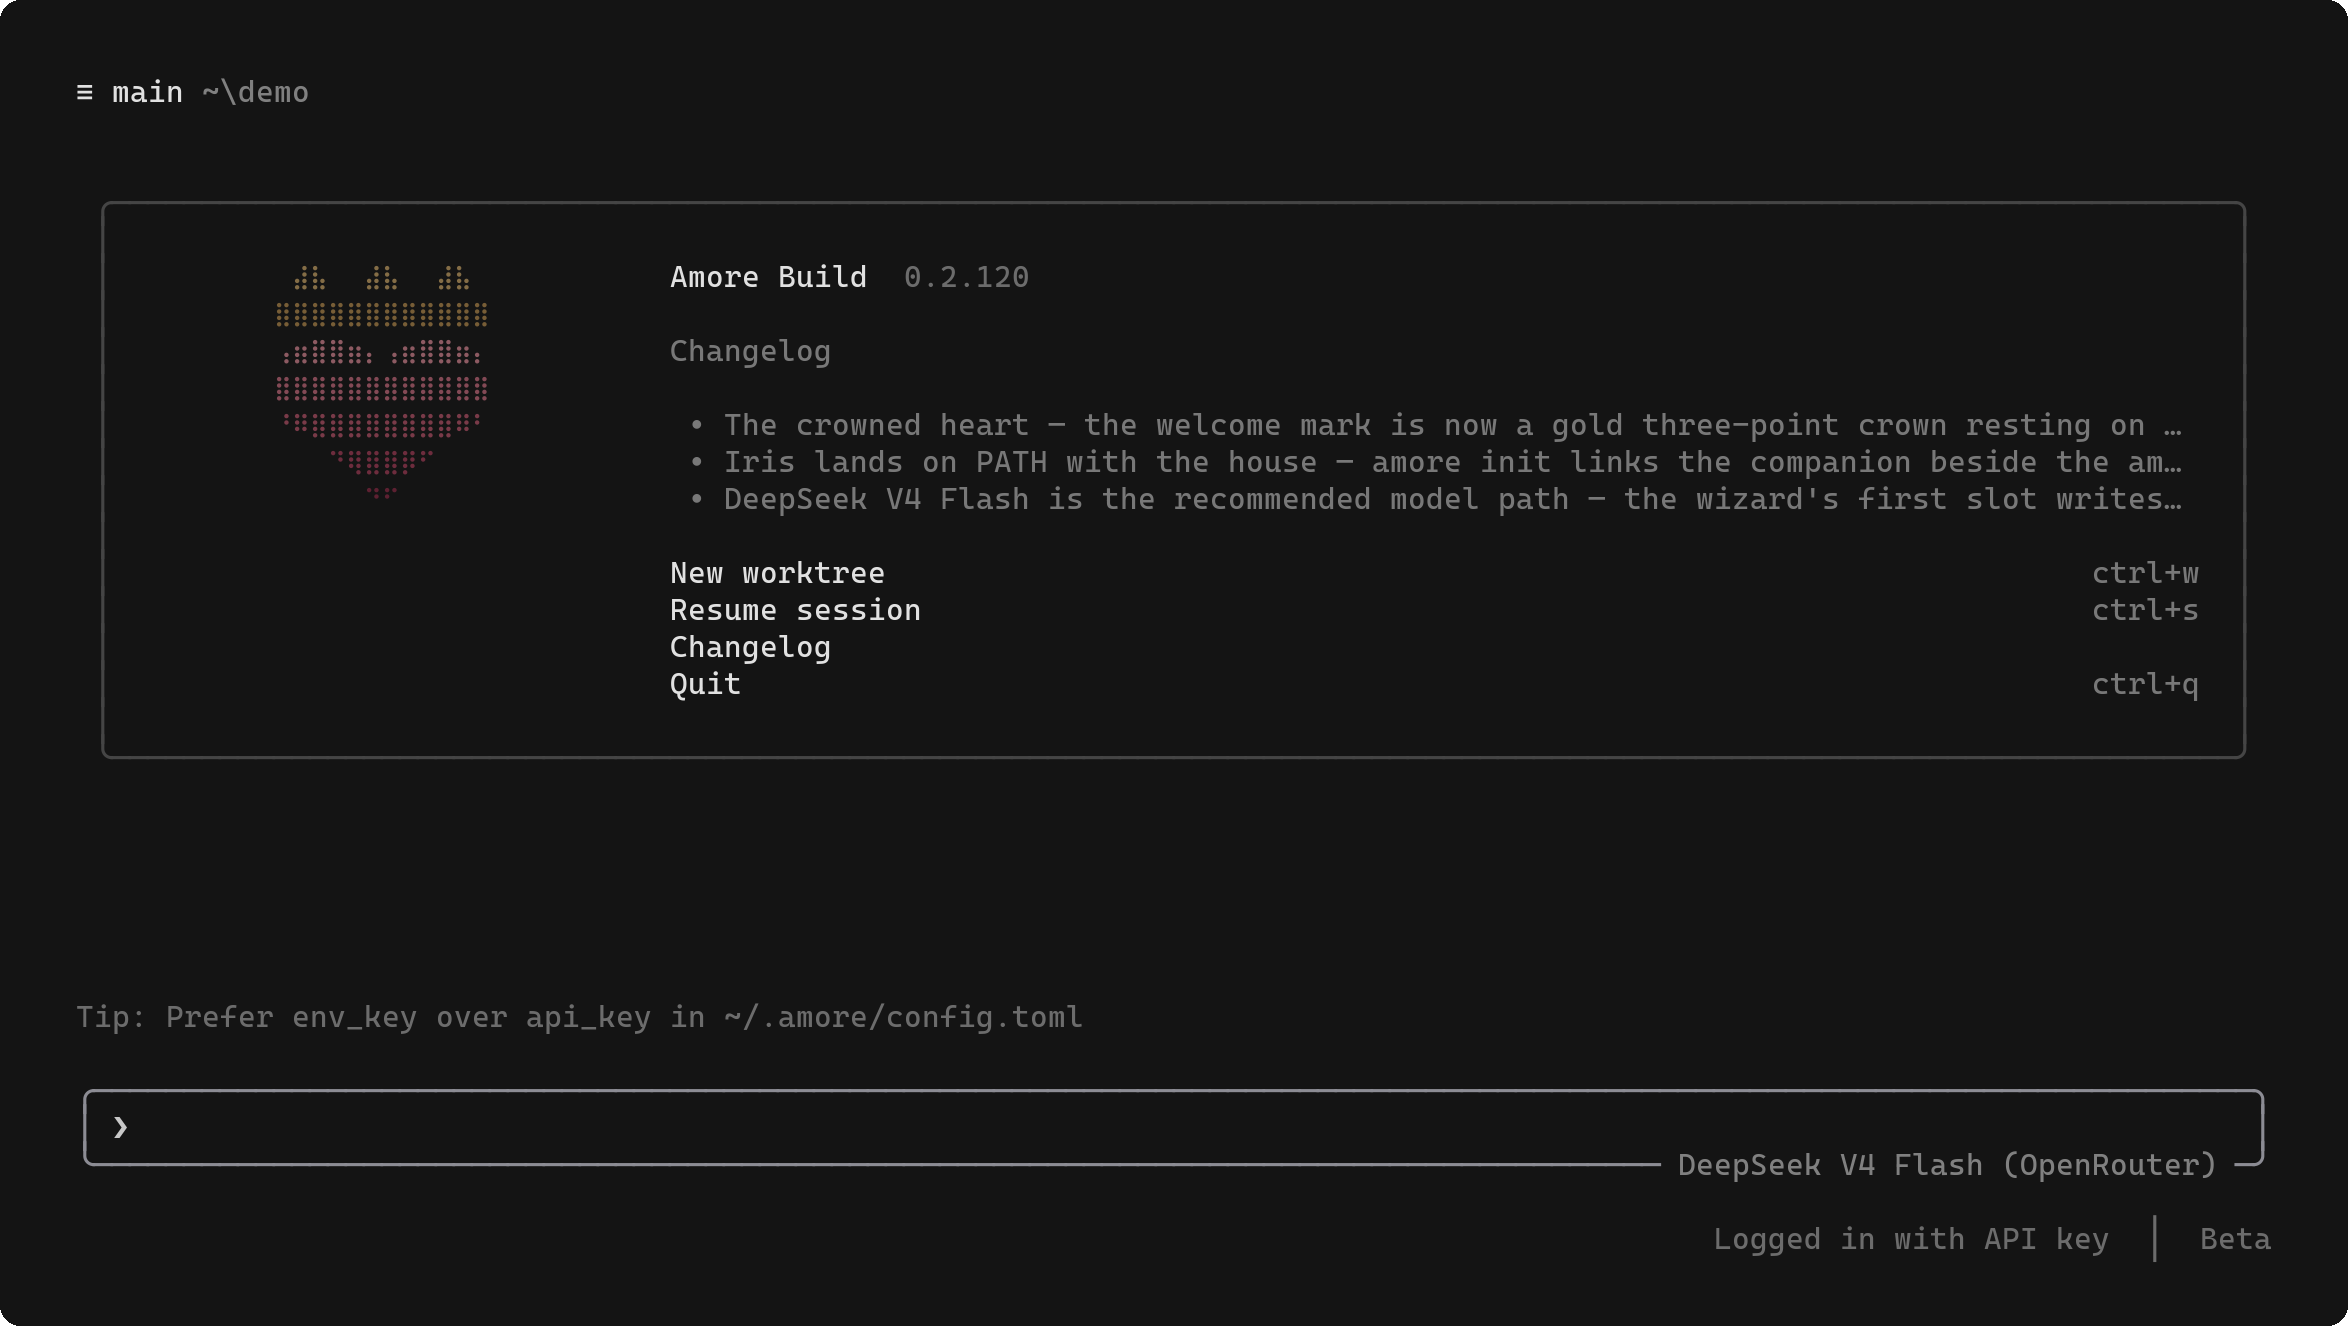
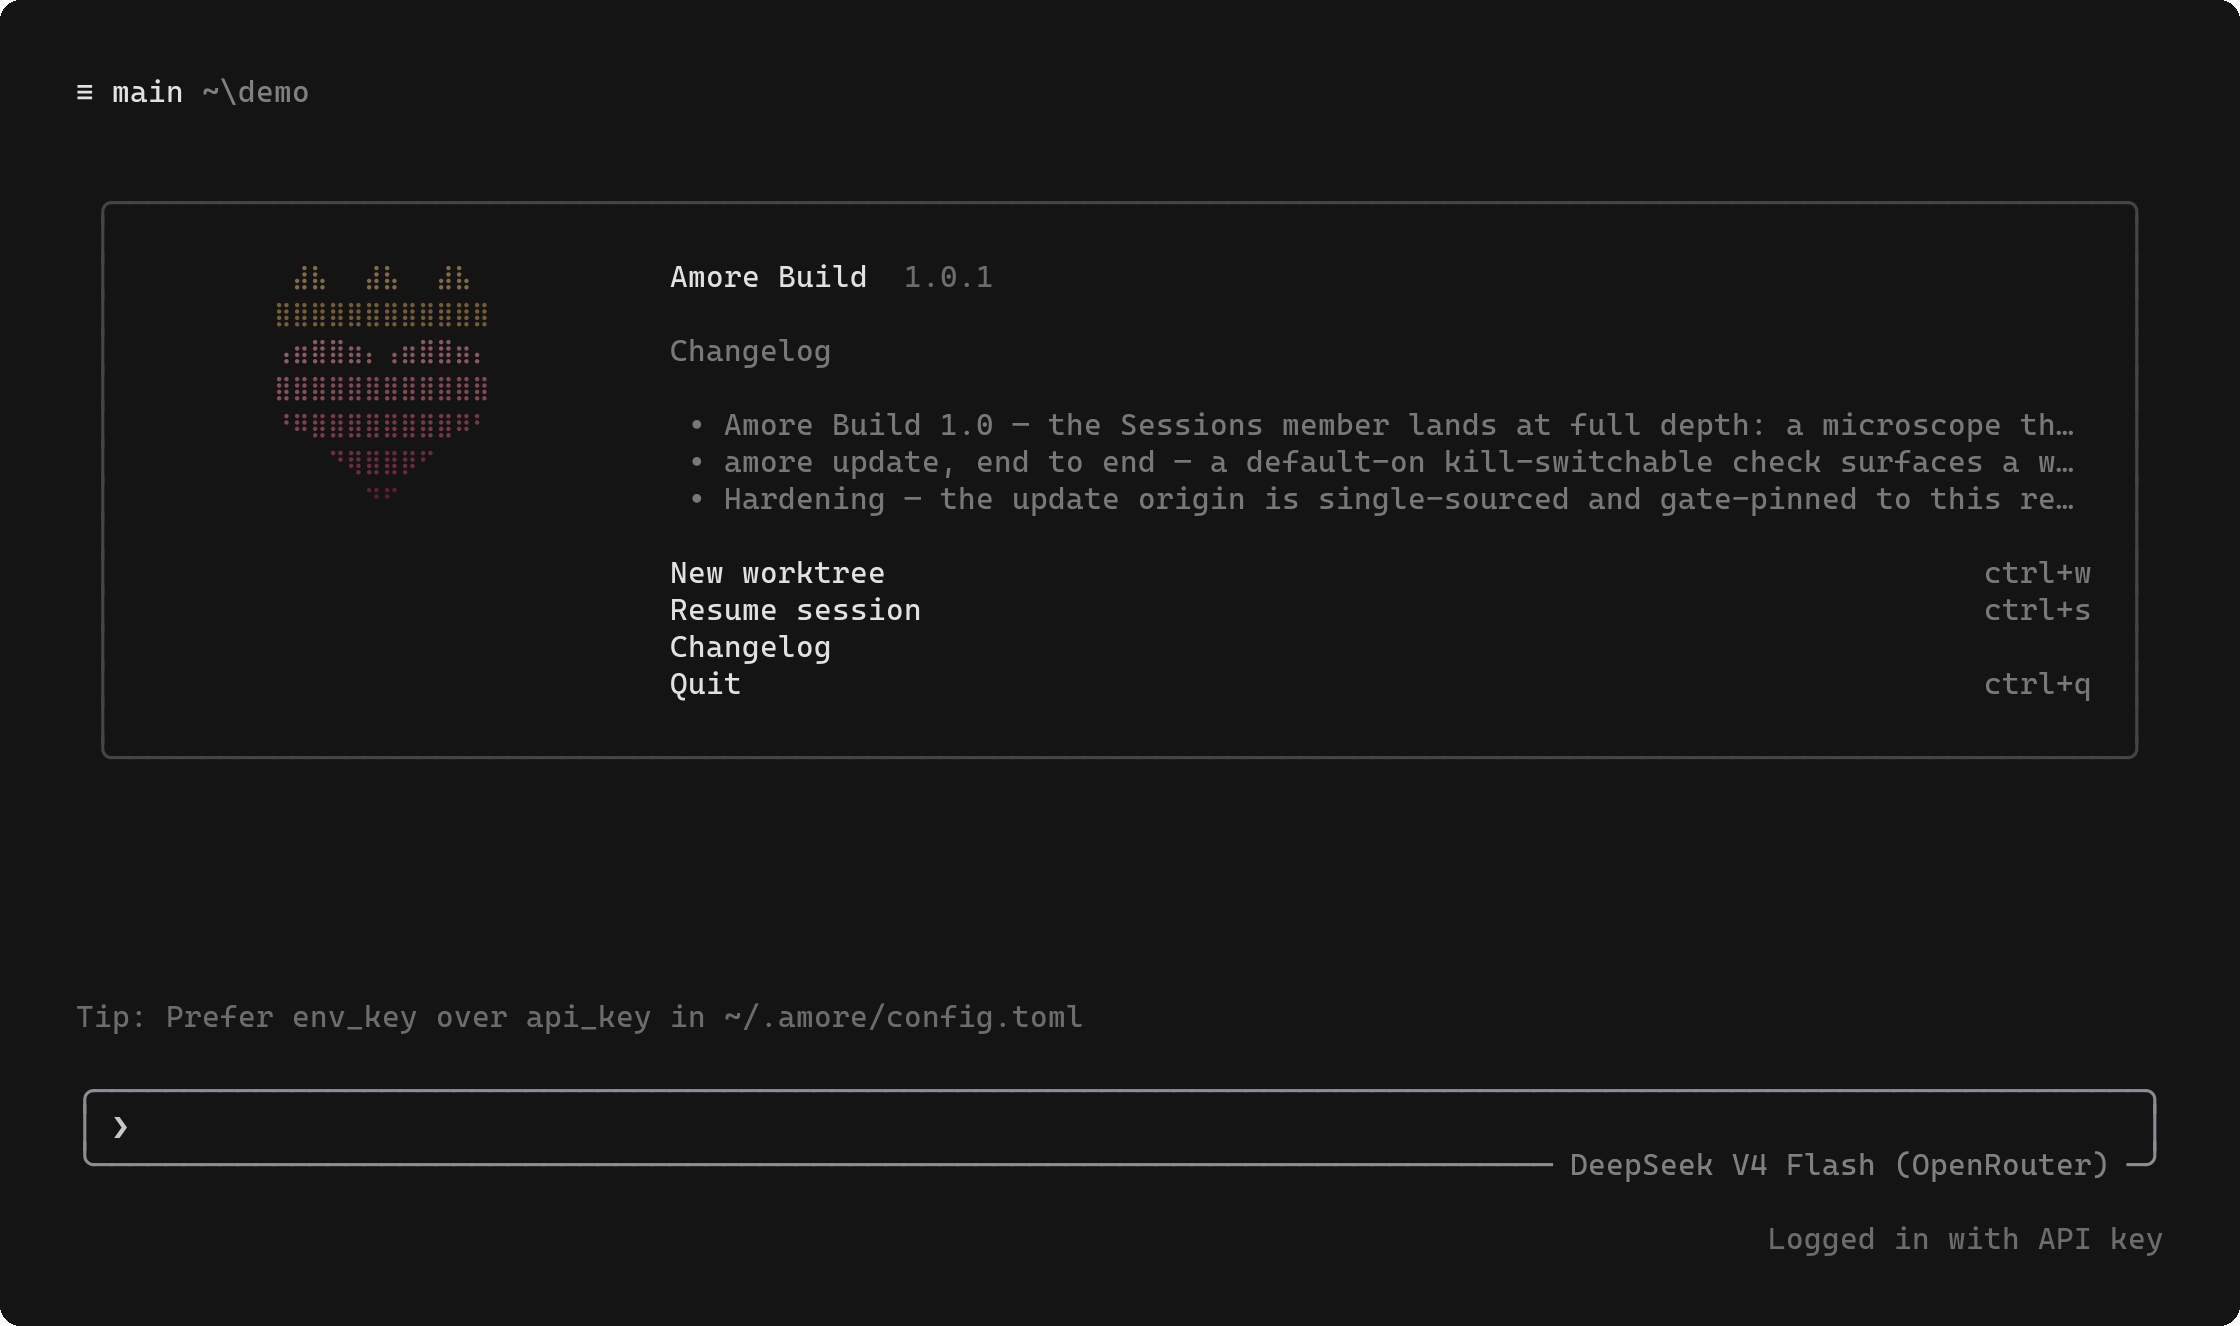
docs: fresh captures for 1.0 — the Sessions member, the update tip, and the welcome

diff --git a/instruments/speculum/scripts/seed-docs-corpus.ts b/instruments/speculum/scripts/seed-docs-corpus.ts
@@ -1,0 +1,263 @@
+/**
+ * Seed a synthetic, documentation-grade session corpus and derive a real
+ * index from it through the production ingest path.
+ *
+ * The corpus is entirely synthetic (no real session content); timestamps are
+ * recent so freshness surfaces render in their normal state. The resulting
+ * index is written through `openDb` + `ingest`, so schema, annotations,
+ * links, and titles all come from the same code paths a live index uses.
+ *
+ * Usage:
+ *   bun run scripts/seed-docs-corpus.ts --db <index.sqlite> [--keep-tree]
+ */
+
+import { mkdirSync, cpSync, rmSync, existsSync } from "node:fs";
+import { dirname, join } from "node:path";
+import { openDb } from "../src/store/db";
+import { ingest } from "../src/ingest";
+import {
+  agentChunk,
+  makeUsage,
+  recentTs,
+  toolCall,
+  toolCallUpdate,
+  turnCompleted,
+  updateLine,
+  userChunk,
+  writeCorpus,
+  type FixtureSession,
+} from "../src/test/fixtures";
+
+const argv = process.argv.slice(2);
+function argValue(flag: string): string | undefined {
+  const i = argv.indexOf(flag);
+  return i >= 0 ? argv[i + 1] : undefined;
+}
+const dbPath = argValue("--db");
+if (!dbPath) {
+  console.error("--db <index.sqlite> is required");
+  process.exit(2);
+}
+const keepTree = argv.includes("--keep-tree");
+const treeOut = argValue("--tree-out");
+
+/** Encoded/decoded cwd pairs for three synthetic projects. */
+const PROJECTS = [
+  { enc: "C--Users-demo-workshop-atelier", dec: "C:\\Users\\demo\\workshop\\atelier" },
+  { enc: "C--Users-demo-workshop-lighthouse", dec: "C:\\Users\\demo\\workshop\\lighthouse" },
+  { enc: "C--Users-demo-workshop-fieldnotes", dec: "C:\\Users\\demo\\workshop\\fieldnotes" },
+] as const;
+
+let counter = 0;
+function sid(): string {
+  counter += 1;
+  const tail = String(counter).padStart(12, "0");
+  return `00000000-0000-4000-8000-${tail}`;
+}
+
+interface Blueprint {
+  project: (typeof PROJECTS)[number];
+  title: string;
+  daysAgo: number;
+  turns: number;
+  user: string;
+  agent: string;
+  tools: Array<{ title: string; input: unknown; output?: string }>;
+  parent?: string;
+}
+
+function build(bp: Blueprint): FixtureSession {
+  const id = sid();
+  const base = bp.daysAgo * 24 * 60;
+  const updates: string[] = [];
+  let minute = 0;
+  const push = (u: Record<string, unknown>) => {
+    updates.push(updateLine(id, u, recentTs(base - minute)));
+    minute += 2;
+  };
+  push(userChunk(bp.user));
+  push(agentChunk(bp.agent));
+  bp.tools.forEach((t, i) => {
+    const callId = `call-${id.slice(-4)}-${i}`;
+    push(toolCall(callId, t.title, t.input));
+    if (t.output !== undefined) {
+      push(toolCallUpdate(callId, t.title, t.output));
+    }
+  });
+  for (let t = 0; t < bp.turns; t += 1) {
+    push(turnCompleted(makeUsage("grok-4", { numTurns: 1 })));
+  }
+  return {
+    id,
+    cwdEnc: bp.project.enc,
+    cwdDecoded: bp.project.dec,
+    modelId: "grok-4",
+    parentSessionId: bp.parent,
+    updates,
+    summaryExtra: bp.title ? { session_summary: bp.title } : undefined,
+  };
+}
+
+const atelier = PROJECTS[0];
+const lighthouse = PROJECTS[1];
+const fieldnotes = PROJECTS[2];
+
+const manifestPath = `${atelier.dec}\\src\\pipeline\\manifest.ts`;
+const layoutPath = `${lighthouse.dec}\\src\\views\\layout.tsx`;
+
+const blueprints: Blueprint[] = [
+  {
+    project: atelier,
+    title: "Design The Pipeline Manifest Schema",
+    daysAgo: 21,
+    turns: 9,
+    user: "Plan the manifest schema for the render pipeline before we build the stages.",
+    agent: "Planning the schema first: stages, inputs, and provenance fields, then the loader.",
+    tools: [
+      { title: "Write", input: { file_path: manifestPath, content: "export interface Manifest {}" }, output: "wrote manifest.ts" },
+      { title: "Bash", input: { command: "bun test src/pipeline" }, output: "3 pass" },
+    ],
+  },
+  {
+    project: atelier,
+    title: "Wire The Manifest Loader Into The Renderer",
+    daysAgo: 17,
+    turns: 14,
+    user: "Implement the loader against the manifest schema we designed.",
+    agent: "Implementing the loader and wiring the renderer to consume the manifest.",
+    tools: [
+      { title: "Read", input: { file_path: manifestPath }, output: "export interface Manifest {}" },
+      { title: "Edit", input: { file_path: `${atelier.dec}\\src\\pipeline\\loader.ts` }, output: "ok" },
+      { title: "Bash", input: { command: "bun test" }, output: "12 pass" },
+    ],
+  },
+  {
+    project: atelier,
+    title: "Debug The Stage Ordering Regression",
+    daysAgo: 9,
+    turns: 22,
+    user: "The pipeline runs stages out of order after the loader change. Find and fix it.",
+    agent: "Debugging: reproducing the ordering failure, then bisecting the loader merge.",
+    tools: [
+      { title: "Bash", input: { command: "bun test src/pipeline --filter ordering" }, output: "1 fail: stage order" },
+      { title: "Read", input: { file_path: manifestPath }, output: "export interface Manifest {}" },
+      { title: "Edit", input: { file_path: `${atelier.dec}\\src\\pipeline\\loader.ts` }, output: "ok" },
+      { title: "Bash", input: { command: "bun test" }, output: "14 pass" },
+    ],
+  },
+  {
+    project: lighthouse,
+    title: "Sketch The Dashboard Layout Grid",
+    daysAgo: 13,
+    turns: 11,
+    user: "Design the responsive grid for the status dashboard.",
+    agent: "Designing a two-band grid with container queries for the narrow profile.",
+    tools: [
+      { title: "Write", input: { file_path: layoutPath, content: "export const Grid = () => null;" }, output: "wrote layout.tsx" },
+    ],
+  },
+  {
+    project: lighthouse,
+    title: "Container Queries For The Narrow Profile",
+    daysAgo: 6,
+    turns: 16,
+    user: "The narrow profile overflows. Move the widgets to container queries.",
+    agent: "Implementing container-query breakpoints and verifying the narrow render.",
+    tools: [
+      { title: "Read", input: { file_path: layoutPath }, output: "export const Grid = () => null;" },
+      { title: "Edit", input: { file_path: layoutPath }, output: "ok" },
+      { title: "Bash", input: { command: "bun run screenshot-sweep" }, output: "6 profiles rendered" },
+    ],
+  },
+  {
+    project: fieldnotes,
+    title: "Import The Survey Notes Archive",
+    daysAgo: 4,
+    turns: 7,
+    user: "Ingest the survey notes archive and normalize the entry dates.",
+    agent: "Importing the archive and normalizing dates during the parse pass.",
+    tools: [
+      { title: "Bash", input: { command: "bun run import --archive notes-2026.zip" }, output: "482 entries" },
+    ],
+  },
+  {
+    project: fieldnotes,
+    title: "Entity Extraction Over The Notes Corpus",
+    daysAgo: 2,
+    turns: 13,
+    user: "Extract the place and person entities from the imported notes.",
+    agent: "Running extraction with the gazetteer, then reviewing low-confidence hits.",
+    tools: [
+      { title: "Bash", input: { command: "bun run extract --kind entities" }, output: "1,240 entities" },
+      { title: "Write", input: { file_path: `${fieldnotes.dec}\\out\\entities.json`, content: "[]" }, output: "wrote entities.json" },
+    ],
+  },
+  {
+    project: atelier,
+    title: "Profile The Render Loop Allocations",
+    daysAgo: 0,
+    turns: 18,
+    user: "The render loop allocates too much per frame. Profile and trim it.",
+    agent: "Profiling the loop, then removing the per-frame clone in the hot path.",
+    tools: [
+      { title: "Bash", input: { command: "bun run profile --frames 500" }, output: "hot: clone in stage 3" },
+      { title: "Edit", input: { file_path: `${atelier.dec}\\src\\pipeline\\stage3.ts` }, output: "ok" },
+    ],
+  },
+];
+
+// Subagent children for parentage surfaces.
+const sessions: FixtureSession[] = [];
+for (const bp of blueprints) {
+  sessions.push(build(bp));
+}
+const parentForSub = sessions[2]!; // the debugging session
+sessions.push(
+  build({
+    project: atelier,
+    title: "Explore The Loader Merge History",
+    daysAgo: 9,
+    turns: 4,
+    user: "Trace the loader merge that changed stage ordering.",
+    agent: "Walking the history for the ordering change.",
+    tools: [{ title: "Bash", input: { command: "git log --oneline src/pipeline" }, output: "12 commits" }],
+    parent: parentForSub.id,
+  }),
+  build({
+    project: lighthouse,
+    title: "Audit The Widget Overflow Reports",
+    daysAgo: 6,
+    turns: 3,
+    user: "Collect the overflow reports across profiles.",
+    agent: "Sweeping the report files per profile.",
+    tools: [{ title: "Read", input: { file_path: layoutPath }, output: "grid source" }],
+    parent: sessions[4]!.id,
+  }),
+);
+
+const corpus = writeCorpus(sessions);
+try {
+  const resolvedDb = dbPath;
+  mkdirSync(dirname(resolvedDb), { recursive: true });
+  if (existsSync(resolvedDb)) rmSync(resolvedDb);
+  const db = openDb(resolvedDb);
+  const stats = ingest(db, { sessionsDir: corpus.root, full: true });
+  db.close();
+  console.log(
+    JSON.stringify(
+      {
+        db: resolvedDb,
+        sessions: sessions.length,
+        eventsIngested: (stats as Record<string, unknown>).eventsIngested ?? null,
+      },
+      null,
+      2,
+    ),
+  );
+  if (keepTree && treeOut) {
+    cpSync(corpus.root, treeOut, { recursive: true });
+    console.log(`tree copied to ${treeOut}`);
+  }
+} finally {
+  corpus.cleanup();
+}

diff --git a/docs/iris.md b/docs/iris.md
@@ -73,6 +73,21 @@ egress inventory: [`autonomy.md`](autonomy.md), [`egress.md`](egress.md).
 
 ![Graph tab](assets/iris/graph.png)
 
+**Sessions**, the working record made navigable (requires the speculum
+companion). Probes score the corpus with honest confidence intervals:
+
+![Sessions tab, the probes board](assets/iris/sessions-probes.png)
+
+The map draws sessions on a time axis with the links the index actually
+derived (parentage, shared artifacts), never fabricated affinity:
+
+![Sessions tab, the map](assets/iris/sessions-map.png)
+
+The microscope navigates the full corpus with filters and sort, and
+magnifies down to a single turn's content:
+
+![Sessions tab, the microscope](assets/iris/sessions-microscope.png)
+
 ### Common commands
 
 ```sh

diff --git a/README.md b/README.md
@@ -58,7 +58,10 @@ to read before you run.
 **To check for a newer release:** `amore update --check` (add `--json` for
 machine-readable output). Checks are on by default at interactive startup
 (at most once per 24 hours against this repository's GitHub Releases); turn
-them off with `AMORE_UPDATE_CHECK=0` or `cli.update_check = false`.
+them off with `AMORE_UPDATE_CHECK=0` or `cli.update_check = false`. When a
+newer release exists, the welcome screen says so:
+
+![The welcome screen surfacing an available update](docs/assets/update-tip.png)
 
 **To apply an update:** `amore update` (or Ctrl+U in the interactive client,
 which applies then quits). The command runs a fleet transaction: `amore` and
